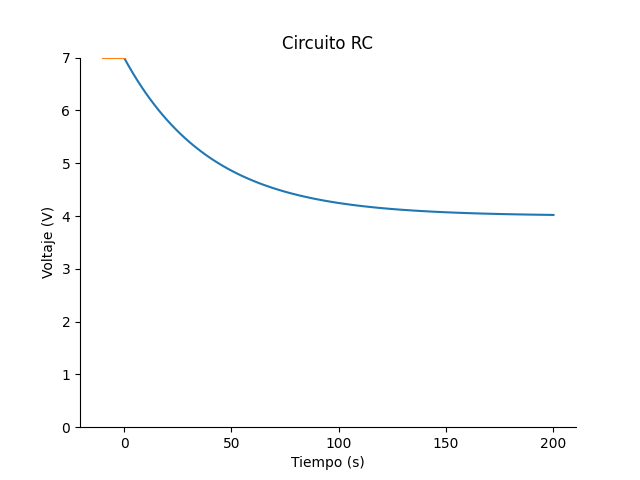
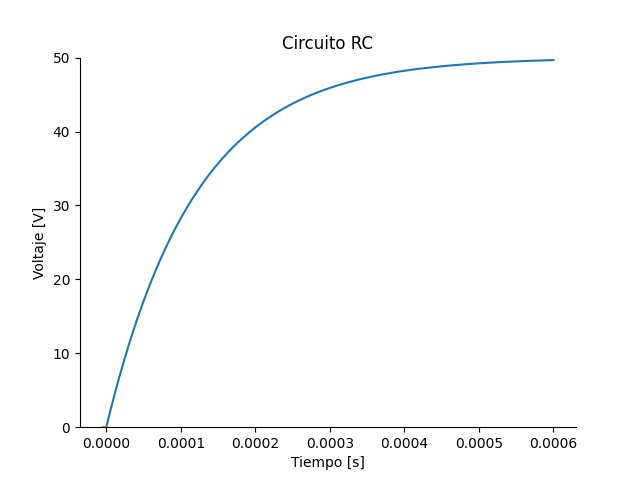
Add files via upload

diff --git a/Proyecto 3.1/Funcion/RC.py b/Proyecto 3.1/Funcion/RC.py
@@ -7,7 +7,7 @@ def RCfuncion(Vo,Vs,R,C):
     x = np.linspace(0,5*T,100)
     y= (Vo*(e)**-(x/T))+(Vs*(1-(e)**-(x/T)))
 
-    x2 = np.linspace(-10,0,10)
+    x2 = np.linspace(-0.000005,0,10)
     y2 = [Vo]*10
 
     fig = plt.figure()

diff --git a/Proyecto 3.1/Funcion/RL.py b/Proyecto 3.1/Funcion/RL.py
@@ -7,7 +7,7 @@ def RLfuncion(Io,Is,R,L):
     x = np.linspace(0,5*T,100)
     y= (Io*(e)**-(x/T))+(Is*(1-(e)**-(x/T)))
 
-    x2 = np.linspace(-10,0,10)
+    x2 = np.linspace(-0.001,0,10)
     y2 = [Io]*10
 
     fig = plt.figure()
